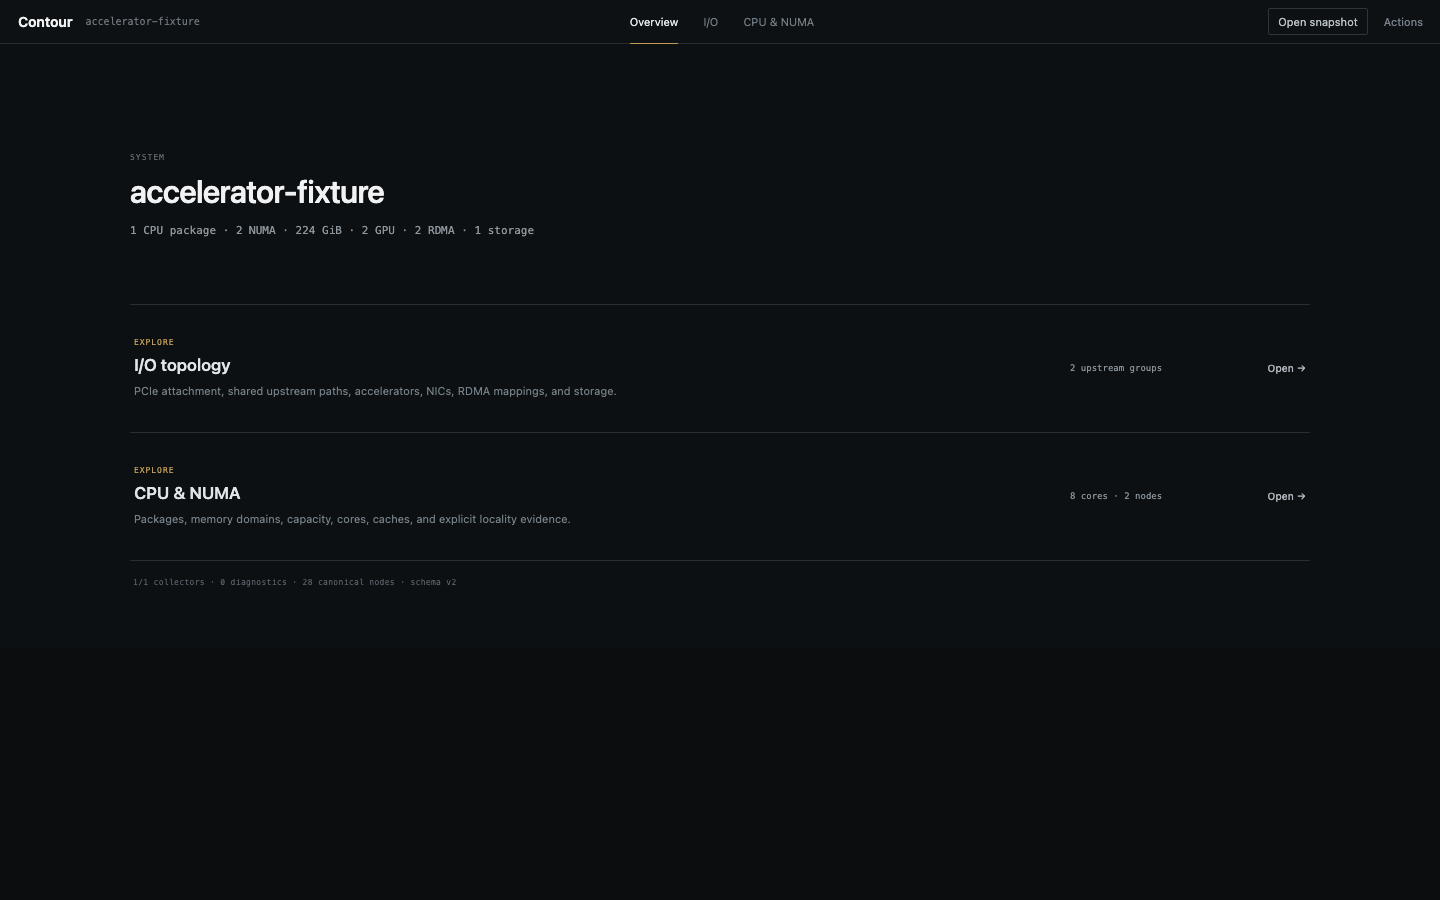
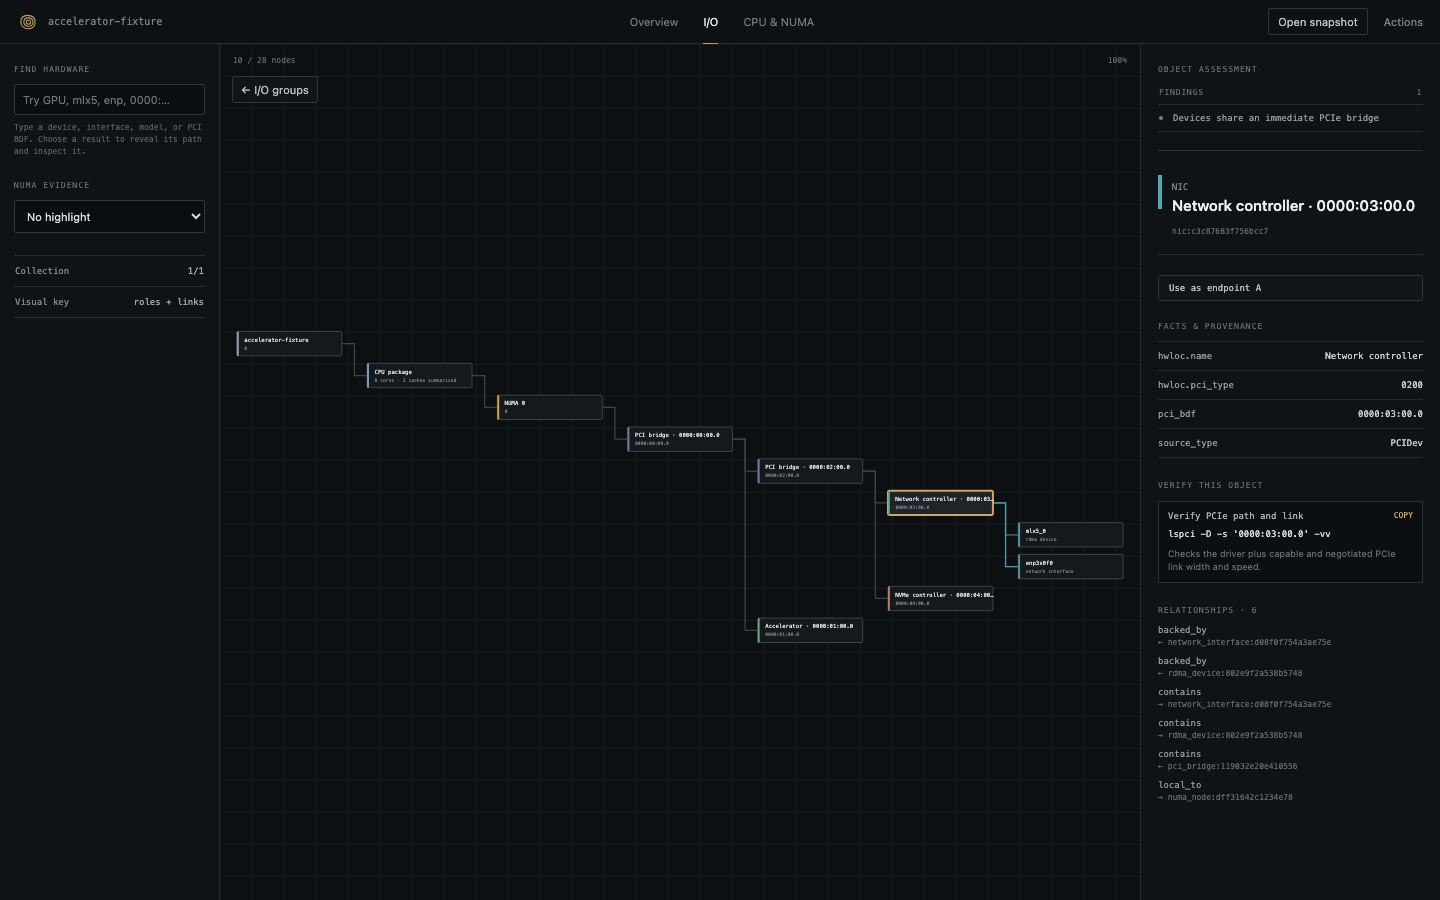
docs: show topology investigation in README

diff --git a/README.md b/README.md
@@ -2,9 +2,9 @@
 
 Contour is a deterministic Linux system-topology explorer. It collects CPU, NUMA, PCIe, GPU, NIC, RDMA, and storage relationships, then opens a local browser UI for inspection, evidence-backed path dossiers, prioritized findings, provenance, and SVG/JSON export.
 
-![Contour overview showing question-oriented I/O and CPU/NUMA entry points](.github/assets/contour-overview.png)
+![Contour I/O topology showing a selected NIC, its PCIe path, related RDMA device and interface, provenance, and verification command](.github/assets/contour-overview.png)
 
-*The bundled accelerator fixture. Contour starts with engineering questions, not the complete raw graph.*
+*A sanitized accelerator fixture with one PCIe branch open. Contour reveals the relevant graph progressively, then connects a selected device to exact evidence and verification commands.*
 
 ## Why Contour
 